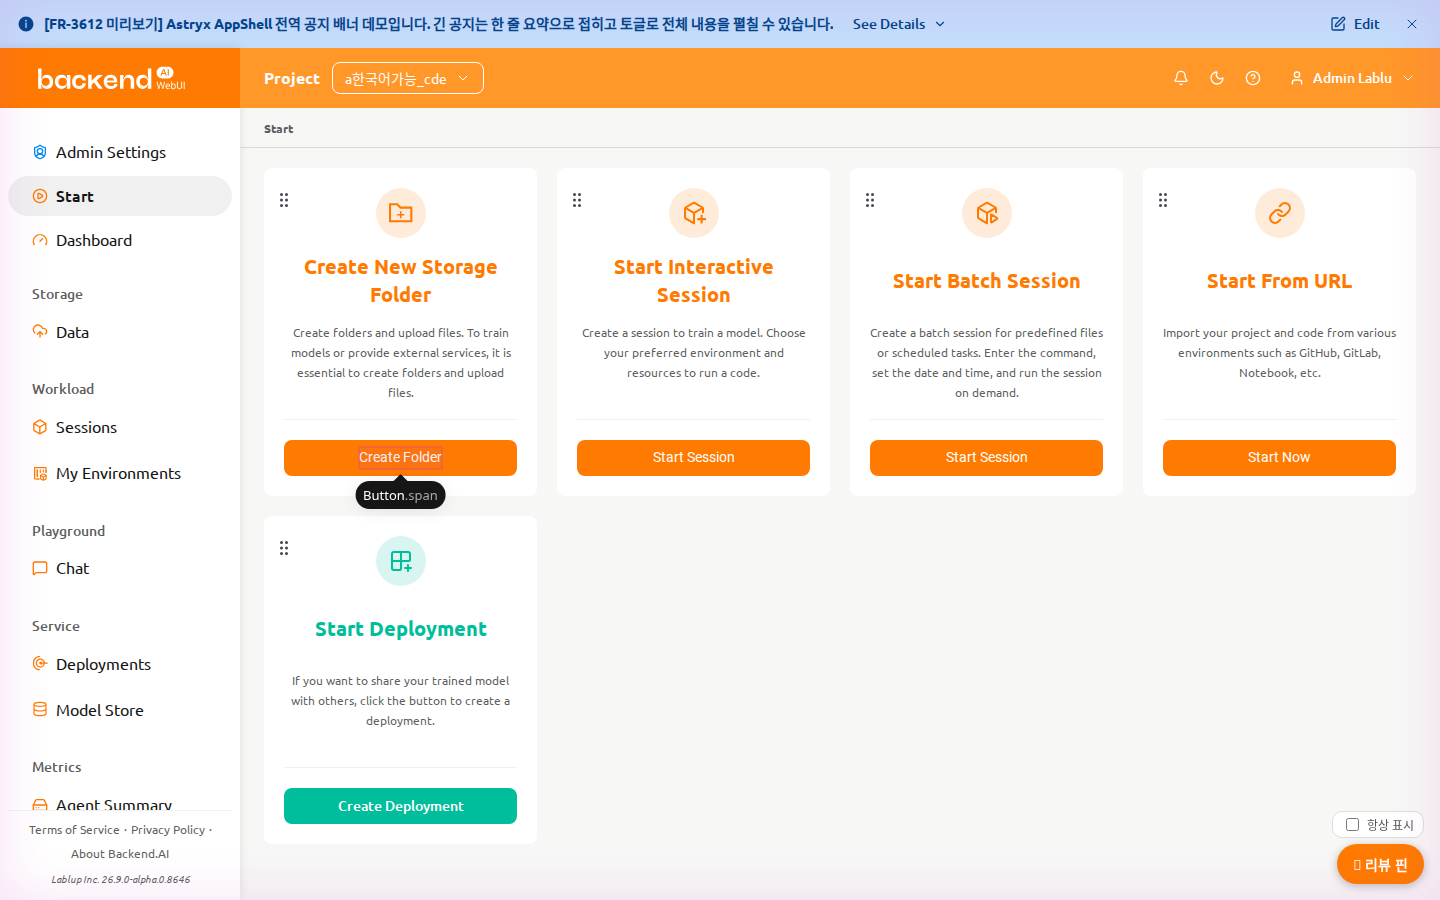
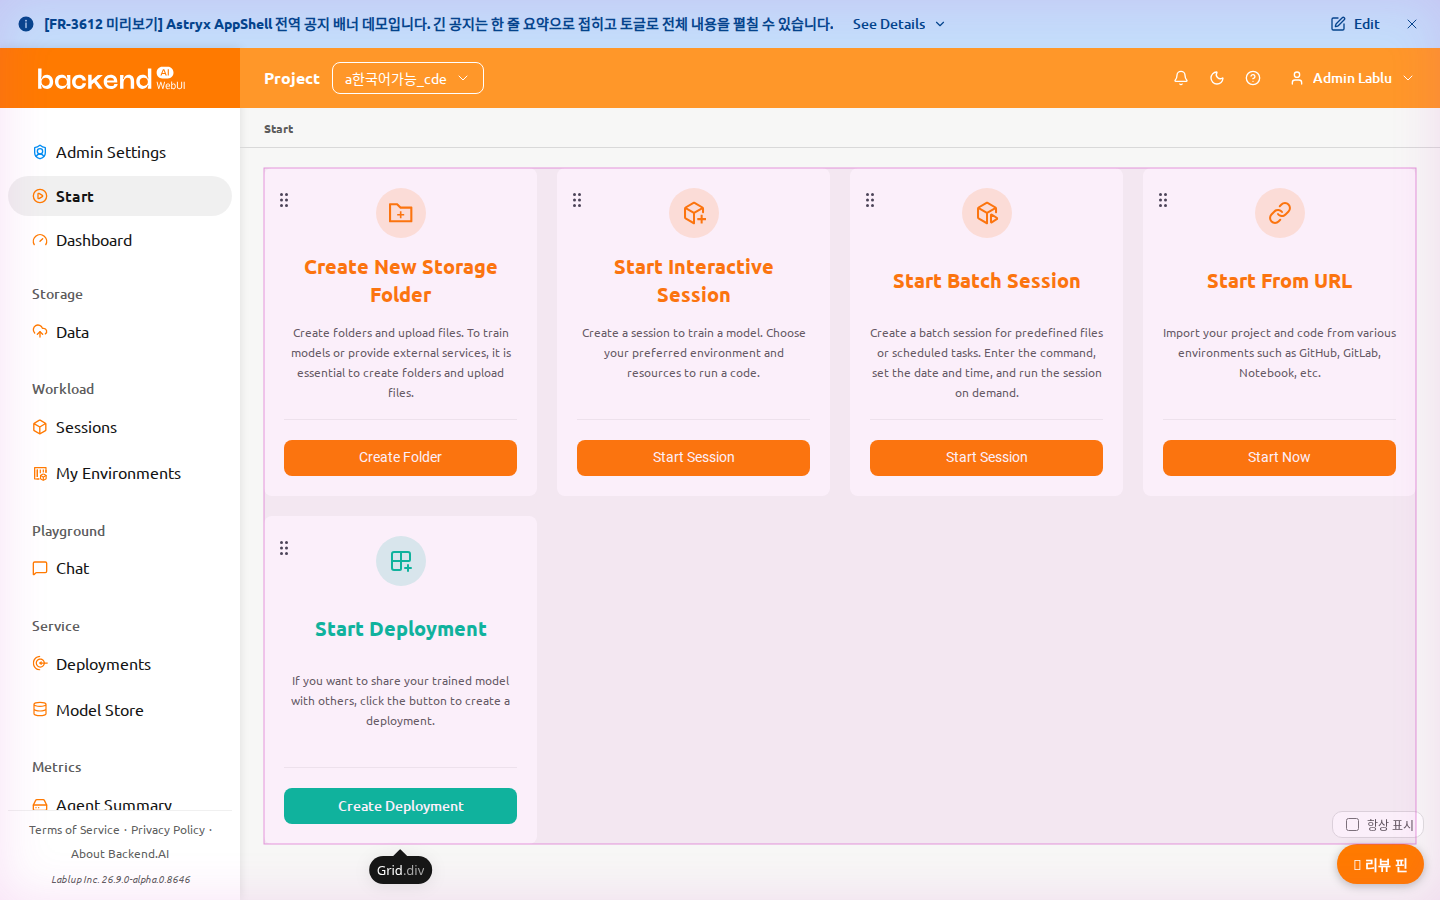
prototype(FR-3791): keep the overlay clickable during react-grab select mode
Driver reaction: in select mode the dock (pin toggle + 항상 표시) was
being grabbed like page DOM. react-grab skips pointer/key events whose
path carries data-react-grab-ignore-events — set on the overlay host, so
dock/panel/compose stay interactive while its select mode is on. Probe:
checkbox toggles, grab stays active, no compose opened by the dock click.

Claude-Session: https://claude.ai/code/session_01SBkEj3rDffVHm1gVd1Avyw

Changed region(s): [[0.25, 0.9333, 0.3125, 0.9956], [0.25, 0.5289, 0.3125, 0.5911]]

diff --git a/react/vite-plugins/reviewOverlayClient.js b/react/vite-plugins/reviewOverlayClient.js
@@ -292,6 +292,9 @@
 
   const host = document.createElement('div');
   host.setAttribute('data-bai-review-overlay', '');
+  // react-grab skips pointer/key events whose path carries this attribute,
+  // so our dock/panel/compose stay clickable while its select mode is on.
+  host.setAttribute('data-react-grab-ignore-events', '');
   const root = host.attachShadow({ mode: 'open' });
   document.body.appendChild(host);
 
